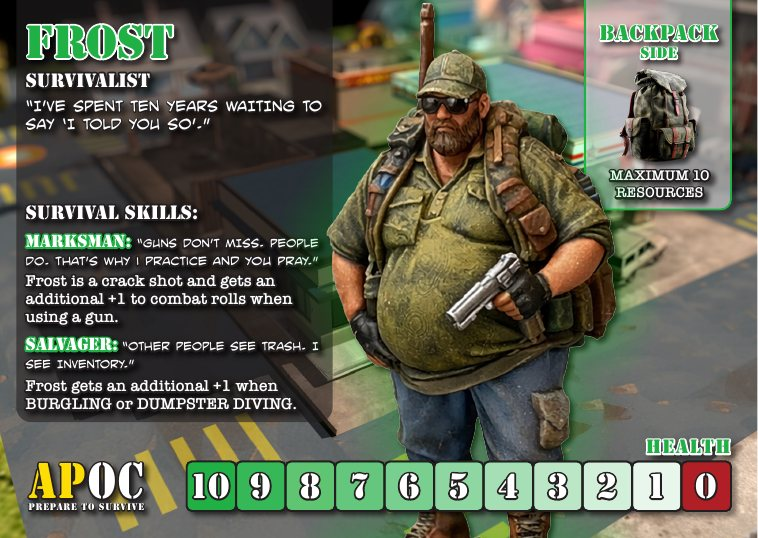
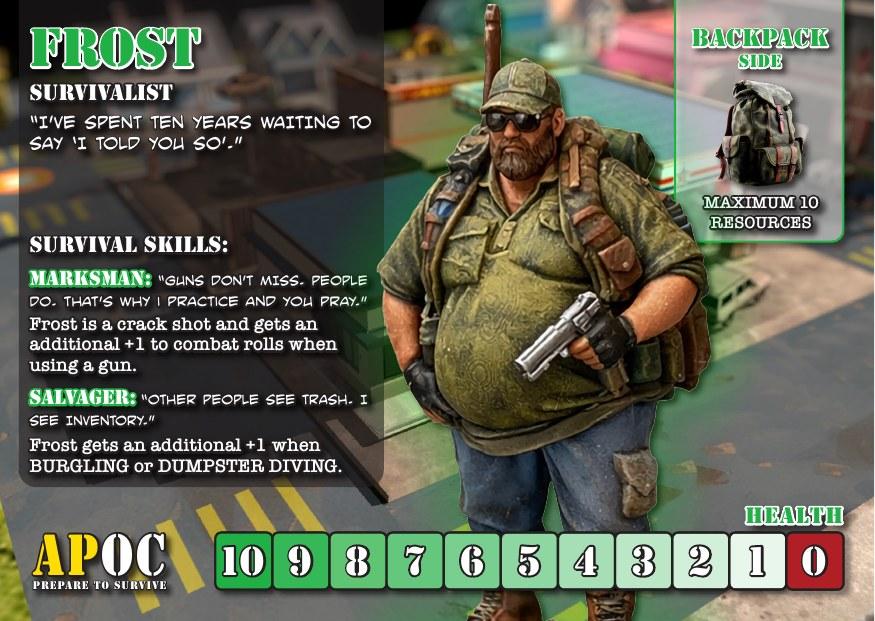
v1.90: character card flip (backpack/bunker) from the enlarged card; refreshed card art from Prepper_cards.pdf
Claude-Session: https://claude.ai/code/session_019xH1rrSMyvmZdTk1mqi99f

diff --git a/src/main.js b/src/main.js
@@ -184,7 +184,7 @@ function setView(v) {
     if (!moveSel) return false;
     if (tgt.type === 'node') return tgt.id === moveSel.node ? 'same' : true;
     const q = S.players[tgt.id]; return !!q && (moveSel.r === 'coin' || E.holdLimit(q) - E.resTotal(q) >= 1);
-  }; V3.onMat = (id, img) => { if (moveSel) dropOnMat(id); else if (img) zoomCard(img); }; V3.onCard = img => { if (!moveSel) zoomCard(img); }; V3.onToken = onToken; V3.canDrag = pid => canDragPawn(pid); V3.onDragHover = onDragHover; V3.onDrop = onDrop; V3.pickBoard = (x, y) => V2.pick(x, y); V3.setTool('select');
+  }; V3.onMat = (id, img) => { if (moveSel) dropOnMat(id); else if (img) zoomMat(id); }; V3.onCard = img => { if (!moveSel) zoomCard(img); }; V3.onToken = onToken; V3.canDrag = pid => canDragPawn(pid); V3.onDragHover = onDragHover; V3.onDrop = onDrop; V3.pickBoard = (x, y) => V2.pick(x, y); V3.setTool('select');
     const f = t => { if (view === '3d') V3.frame(t); requestAnimationFrame(f); }; requestAnimationFrame(f);
   }
   if (v === '3d') { V3.resize(); } else { V2.resize(); }
@@ -574,7 +574,7 @@ function renderTurnBar() {
 }
 // A drawn news paper comes up big in the middle of the table until it is closed (x, click or Esc); the event info of each pile stays along the bottom until a newer paper covers it.
 function closeNewsBig() { const o = $('#newsbig'); if (o && !o.hidden) { o.hidden = true; newsClosed = newsShown; return true; } return false; }
-window.addEventListener('keydown', e => { if (e.key !== 'Escape') return; const z = $('#zoom'); if (z && !z.hidden) { z.hidden = true; return; } closeNewsBig(); });
+window.addEventListener('keydown', e => { if ((e.key === 'f' || e.key === 'F') && zoomFlipId !== null) { const z = $('#zoom'); if (z && !z.hidden) { z.querySelector('.flipbtn').click(); return; } } if (e.key !== 'Escape') return; const z = $('#zoom'); if (z && !z.hidden) { z.hidden = true; return; } closeNewsBig(); });
 function renderNewsPanel() {
   let big = $('#newsbig'); if (!big) { big = document.createElement('div'); big.id = 'newsbig'; big.hidden = true; big.onclick = () => closeNewsBig(); $('#boardWrap').appendChild(big); }
   let bar = $('#evbar'); if (!bar) { bar = document.createElement('div'); bar.id = 'evbar'; $('#boardWrap').appendChild(bar); }
@@ -668,7 +668,16 @@ function craftModal() {
   }
   return `<h2>APOC Recipe Book <span class="note">(${esc(p.name)} has ${chips(p.res)})</span></h2><div class="btns" style="margin-bottom:8px">${tab('craft', '🔧 Craft')}${tab('scrap', '♻ Recycle')}</div>${body}<div class="btns">${closeBtn()}</div>`;
 }
-function zoomCard(src) {   // any face-up card clicked on the table or in a list: show it big in the centre of the screen; click to close
+function zoomMat(id) {   // character card on the table: shown big with a Flip button (backpack side <-> bunker side)
+  const p = S.players[id], pr = E.D.prepper[p.prepper]; if (!pr) return;
+  V3.flip = V3.flip || {}; const side = V3.flip[id] !== undefined ? V3.flip[id] : (p.bunker ? 1 : 0);
+  let o = $('#zoom'); if (!o) { o = document.createElement('div'); o.id = 'zoom'; o.onclick = () => { o.hidden = true; }; document.body.appendChild(o); }
+  o.innerHTML = `<img class="flipin" src="${pr.art[side] || pr.art[0]}"><button class="flipbtn">Flip to ${side ? 'BACKPACK' : 'BUNKER'} side (F)</button>`; o.hidden = false;
+  o.querySelector('.flipbtn').onclick = e => { e.stopPropagation(); V3.flip[id] = side ? 0 : 1; V3.matSig = null; zoomMat(id); };
+  zoomFlipId = id;
+}
+let zoomFlipId = null;
+function zoomCard(src) {   zoomFlipId = null;   // any face-up card clicked on the table or in a list: show it big in the centre of the screen; click to close
   let o = $('#zoom'); if (!o) { o = document.createElement('div'); o.id = 'zoom'; o.onclick = () => { o.hidden = true; }; document.body.appendChild(o); }
   o.innerHTML = `<img src="${src}">`; o.hidden = false;
 }

diff --git a/src/view3d.js b/src/view3d.js
@@ -324,13 +324,13 @@ export class View3D {
       for (const ty of ['ai', 'pandemic', 'nuclear']) if (!s.stand[ty].length) { const [x, z] = this.newsPos[ty]; const lb = this.label(ty.toUpperCase(), '#9aa'); lb.scale.set(0.13, 0.025, 1); lb.position.set(x, 0.01, z); this.piles.add(lb); }
     }
     // player mats: character card (backpack side until bunker), resource piles and item cards
-    const msig = JSON.stringify([s.players.map(p => [p.prepper, p.bunker, p.res, p.coin, p.items.map(i => i.id + (i.broken ? 'x' : ''))]), s.cur, s.stage, s.pending && s.pending.pl]);
+    const msig = JSON.stringify([s.players.map(p => [p.prepper, p.bunker, p.res, p.coin, p.items.map(i => i.id + (i.broken ? 'x' : ''))]), this.flip || {}, s.cur, s.stage, s.pending && s.pending.pl]);
     if (msig !== this.matSig) {
       this.matSig = msig; this.mats.clear(); this.nPlayers = s.players.length; this.matItems = s.players.some(q => q.items.length > 0);
       const n = s.players.length, zc = this.H / 2 + 0.03 + 0.0745, SP = 0.03;
       s.players.forEach((p, i) => {
         const c0 = this.mats.children.length;
-        const x = this.matX(i, n), art = (this.preppers && this.preppers[p.prepper] ? this.preppers[p.prepper].art : []), url = art[p.bunker ? 1 : 0] || art[0];
+        const x = this.matX(i, n), art = (this.preppers && this.preppers[p.prepper] ? this.preppers[p.prepper].art : []), url = art[(this.flip && this.flip[p.id] !== undefined ? this.flip[p.id] : (p.bunker ? 1 : 0))] || art[0];
         const active = s.cur === p.id && s.stage === 'turn', fade = s.stage === 'turn' && !active, fx = fade ? { transparent: true, opacity: 0.5 } : {};   // players whose turn it is not are faded to 50%
         const col = new THREE.Color(PREP_COL[p.prepper] || '#888');
         const frame = new THREE.Mesh(new THREE.BoxGeometry(0.21 + 0.01, 0.002, 0.149 + 0.01), new THREE.MeshStandardMaterial({ color: col, emissive: col, emissiveIntensity: active ? 0.9 : 0.1, ...fx }));

diff --git a/style.css b/style.css
@@ -146,3 +146,8 @@ img.zm{cursor:zoom-in}
 
 #chint{position:absolute;right:14px;bottom:10px;z-index:12;color:#fff;font:600 14px sans-serif;text-shadow:0 1px 3px #000,0 0 8px #fff,0 0 16px #8cf;pointer-events:none;display:none;animation:chglow 1.6s ease-in-out infinite}
 @keyframes chglow{0%,100%{text-shadow:0 1px 3px #000,0 0 4px #fff,0 0 8px #8cf;opacity:.8}50%{text-shadow:0 1px 3px #000,0 0 10px #fff,0 0 22px #8cf,0 0 34px #8cf;opacity:1}}
+
+#zoom{flex-direction:column;gap:14px}
+#zoom .flipbtn{background:#1f7a3a;color:#fff;border:2px solid #fff;border-radius:10px;padding:10px 18px;font:700 16px sans-serif;cursor:pointer}
+#zoom img.flipin{animation:cardflip .45s ease-out}
+@keyframes cardflip{0%{transform:rotateY(90deg) scale(.9)}100%{transform:none}}

diff --git a/src/version.js b/src/version.js
@@ -1,2 +1,2 @@
 // Bump this on every change; shown next to the APOC title.
-export const VERSION = 'v1.89';
+export const VERSION = 'v1.90';
